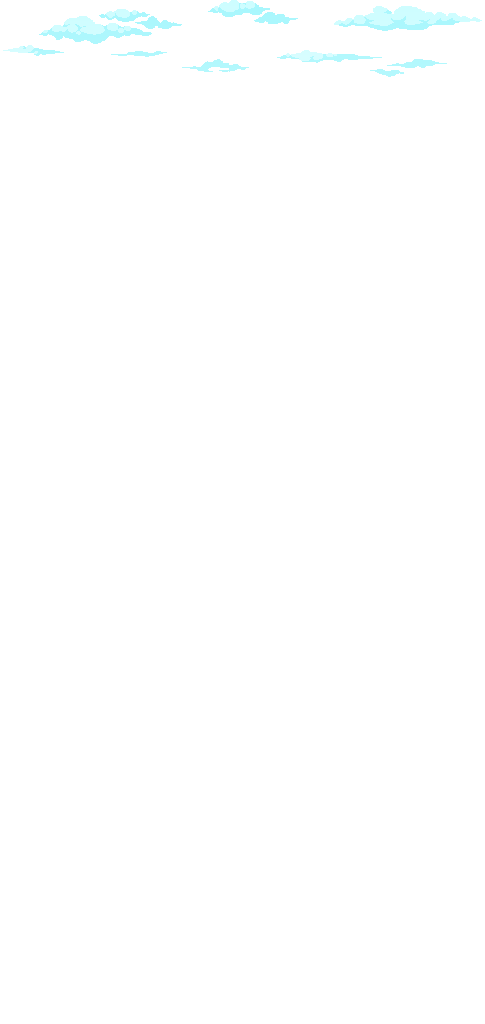
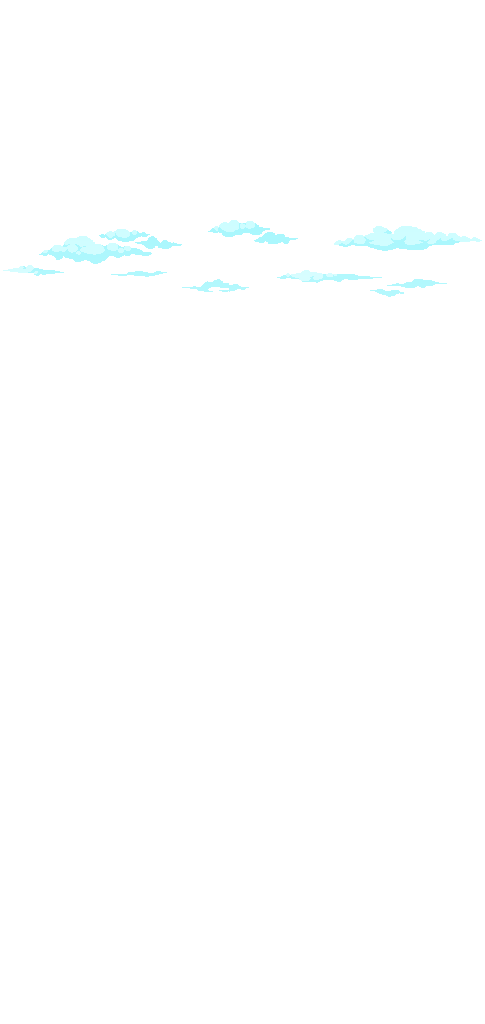
feat : 구름 전경 추가

diff --git a/WinAPI/CScene.cpp b/WinAPI/CScene.cpp
@@ -26,6 +26,8 @@ CScene::CScene()
 	pBImagePrev = nullptr;
 	pBImageNext = nullptr;
 	pBImageMiddle = nullptr;
+
+	pCloudImage = nullptr;
 }
 
 
@@ -116,6 +118,11 @@ void CScene::SceneRender()
 		else if ((int)Layer::BackGround == layer)
 		{
 			BackGroundRender();
+			continue;
+		}
+		else if ((int)Layer::Cloud == layer)
+		{
+			CloudRender();
 			continue;
 		}
 		else if ((int)Layer::Tile == layer)
@@ -282,6 +289,29 @@ void CScene::LoadBackground(CImage* img)
 	AddGameObject(pBImageNext);
 }
 
+void CScene::LoadCloud(CImage* img)
+{
+	pCloudImage = img;
+
+	pCloud.push_back(new CImageObject);
+	pCloud.push_back(new CImageObject);
+	pCloud.push_back(new CImageObject);
+
+	pCloud[1]->SetImage(img);
+	pCloud[1]->SetPos(pCloud[1]->GetPos().x - pCloudImage->GetWidth(), 0);
+
+	pCloud[0]->SetImage(img);
+	pCloud[0]->SetPos(pCloud[0]->GetPos().x - pCloudImage->GetWidth() + 2, 0);
+
+	pCloud[2]->SetImage(img);
+	pCloud[2]->SetPos(pCloud[2]->GetPos().x + pCloudImage->GetWidth() - 2, 0);
+
+	AddGameObject(pCloud[0]);
+	AddGameObject(pCloud[1]);
+	AddGameObject(pCloud[2]);
+
+}
+
 void CScene::MiddleGroundRender()
 {
 
@@ -355,6 +385,47 @@ void CScene::BackGroundRender()
 
 
 		}
+	}
+}
+
+void CScene::CloudRender()
+{
+	if (pCloudImage != nullptr)
+	{
+		pCloud[0]->SetPos(pCloud[0]->GetPos().x + DT * 10, pCloud[0]->GetPos().y);
+		pCloud[1]->SetPos(pCloud[1]->GetPos().x + DT * 10, pCloud[1]->GetPos().y);
+		pCloud[2]->SetPos(pCloud[2]->GetPos().x + DT * 10, pCloud[2]->GetPos().y);
+
+
+		Vector startCameraPos = Vector(CAMERA->GetLookAt().x - (WINSIZEX * 0.5), CAMERA->GetLookAt().y - (WINSIZEY * 0.5));
+		Vector endCameraPos = Vector(CAMERA->GetLookAt().x + (WINSIZEX * 0.5), CAMERA->GetLookAt().y + (WINSIZEY * 0.5));
+
+		
+			if (pCloud[0]->GetPos().x + pCloudImage->GetWidth() < startCameraPos.x)
+			{
+				pCloud[0]->SetPos(pCloud[2]->GetPos().x + pCloudImage->GetWidth(), 0);
+
+				CImageObject* temp;
+				temp = pCloud[2];
+				pCloud[2] = pCloud[0];
+				pCloud[0] = pCloud[1];
+				pCloud[1] = temp;
+
+
+			}
+			else if (pCloud[2]->GetPos().x > endCameraPos.x)
+			{
+				pCloud[2]->SetPos(pCloud[0]->GetPos().x - pCloudImage->GetWidth(), 0);
+
+				CImageObject* temp;
+				temp = pCloud[0];
+				pCloud[0] = pCloud[2];
+				pCloud[2] = pCloud[1];
+				pCloud[1] = temp;
+
+
+			}
+		
 	}
 }
 

diff --git a/WinAPI/CSceneGailRoom.cpp b/WinAPI/CSceneGailRoom.cpp
@@ -43,6 +43,9 @@ void CSceneGailRoom::Init()
 	m_pImage = RESOURCE->LoadImg(L"Panselo_Middle", L"Image\\Panselo_Middle.png");
 	LoadMiddleground(m_pImage);
 
+	m_pImage = RESOURCE->LoadImg(L"Cloud", L"Image\\Cloud.png");
+	LoadCloud(m_pImage);
+
 	m_pImage = RESOURCE->LoadImg(L"GailRoom", L"Image\\GailRoom.png");
 	CImageObject* pForest = new CImageObject;
 	pForest->SetImage(m_pImage);

diff --git a/WinAPI/CSceneForest.cpp b/WinAPI/CSceneForest.cpp
@@ -47,6 +47,9 @@ void CSceneForest::Init()
 	m_pImage = RESOURCE->LoadImg(L"Forest_Middle", L"Image\\Forest_Middle.png");
 	LoadMiddleground(m_pImage);
 
+	m_pImage = RESOURCE->LoadImg(L"Cloud", L"Image\\Cloud.png");
+	LoadCloud(m_pImage);
+
 	m_pImage = RESOURCE->LoadImg(L"Forest", L"Image\\Forest.png");
 	CImageObject* pForest = new CImageObject;
 	pForest->SetImage(m_pImage);

diff --git a/WinAPI/CSceneStore.cpp b/WinAPI/CSceneStore.cpp
@@ -48,6 +48,9 @@ void CSceneStore::Init()
 	m_pImage = RESOURCE->LoadImg(L"Panselo_Middle", L"Image\\Panselo_Middle.png");
 	LoadMiddleground(m_pImage);
 
+	m_pImage = RESOURCE->LoadImg(L"Cloud", L"Image\\Cloud.png");
+	LoadCloud(m_pImage);
+
 	m_pImage = RESOURCE->LoadImg(L"Store", L"Image\\Store.png");
 	CImageObject* pForest = new CImageObject;
 	pForest->SetImage(m_pImage);

diff --git a/WinAPI/CSceneField.cpp b/WinAPI/CSceneField.cpp
@@ -49,6 +49,9 @@ void CSceneField::Init()
 	m_pImage = RESOURCE->LoadImg(L"Field_Middle", L"Image\\Field_Middle.png");
 	LoadMiddleground(m_pImage);
 
+	m_pImage = RESOURCE->LoadImg(L"Cloud", L"Image\\Cloud.png");
+	LoadCloud(m_pImage);
+
 	m_pImage = RESOURCE->LoadImg(L"Field", L"Image\\Field.png");
 	CImageObject* pForest = new CImageObject;
 	pForest->SetImage(m_pImage);

diff --git a/WinAPI/WinAPI.h b/WinAPI/WinAPI.h
@@ -57,6 +57,7 @@ enum class Layer
 	Default,
 	BackGround,
 	MiddleGround,
+	Cloud,
 	Tile,
 	Door,
 	NPC,
